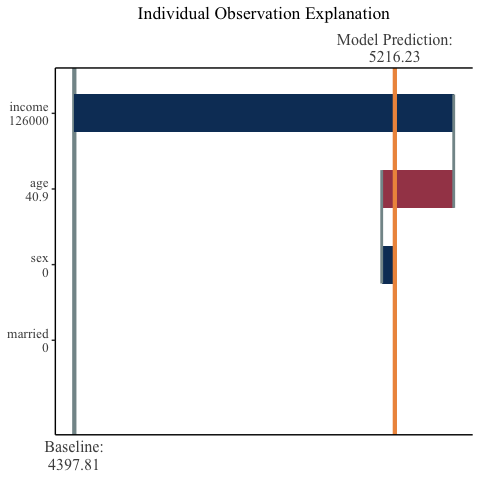
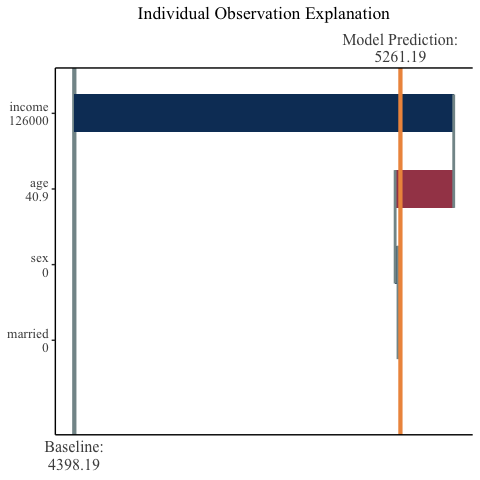
changes for re-submission to CRAN

Changed region(s): [[0.6875, 0.0625, 0.9688, 0.9062], [0.1562, 0.9375, 0.2188, 1.0]]

diff --git a/README.md b/README.md
@@ -127,17 +127,17 @@ final_shap <- mshap(
 
 head(final_shap$shap_vals)
 #> # A tibble: 6 x 4
-#>       V1     V2    V3    V4
-#>    <dbl>  <dbl> <dbl> <dbl>
-#> 1  1157. -1231.  3.28 -30.9
-#> 2 -2691.  1128. 12.9  -20.6
-#> 3 -1042.  1318. 19.8   21.9
-#> 4 -2072.  -869. -4.30 -25.9
-#> 5  3784.  2151. 25.9  -18.8
-#> 6 -2168.   919. 22.4  -19.3
+#>       V1     V2     V3     V4
+#>    <dbl>  <dbl>  <dbl>  <dbl>
+#> 1  1149. -1200. 13.9   -11.8 
+#> 2 -2711.  1149.  5.69  -11.2 
+#> 3 -1027.  1301.  5.81    9.58
+#> 4 -2064.  -879. -0.916 -22.7 
+#> 5  3803.  2096. 37.7   -27.4 
+#> 6 -2146.   897. 25.4   -14.3
 
 final_shap$expected_value
-#> [1] 4397.814
+#> [1] 4398.19
 ```
 
 As a check, you can see that the expected value for mSHAP is indeed the
@@ -146,7 +146,7 @@ expected value of the model across the training data.
 ``` r
 ## R
 mean(py$tot_rev)
-#> [1] 4397.814
+#> [1] 4398.19
 ```
 
 We now have calculated the mSHAP values for the multiplied model
@@ -183,9 +183,9 @@ observation_plot(
 For another, more complex, use case run `vignette("mshap")`. For more
 examples and options for plotting, run `vignette("mshap_plots")`.
 
-## Attribution
+## Citations
 
 -   For more information about SHAP values in general, you can visit the
     [SHAP github page](https://github.com/slundberg/shap)
--   If you use `{mshap}`, please cite [this
-    article](https://www.google.com/)
+-   If you use `{mshap}`, please cite [*mSHAP: SHAP Values for Two-Part
+    Models*](https://arxiv.org/abs/2106.08990)

diff --git a/cran-comments.md b/cran-comments.md
@@ -1,3 +1,10 @@
+## Resubmission
+
+* Removed the `%>%` operator re-export from `{magrittr}` to resolve
+  potential documentation issues
+* Added two papers pertinent to the methods implemented in this package 
+  to the description field in the DESCRIPTION file
+
 ## Test Environments
 
 * local OSX install, R 4.0.0
